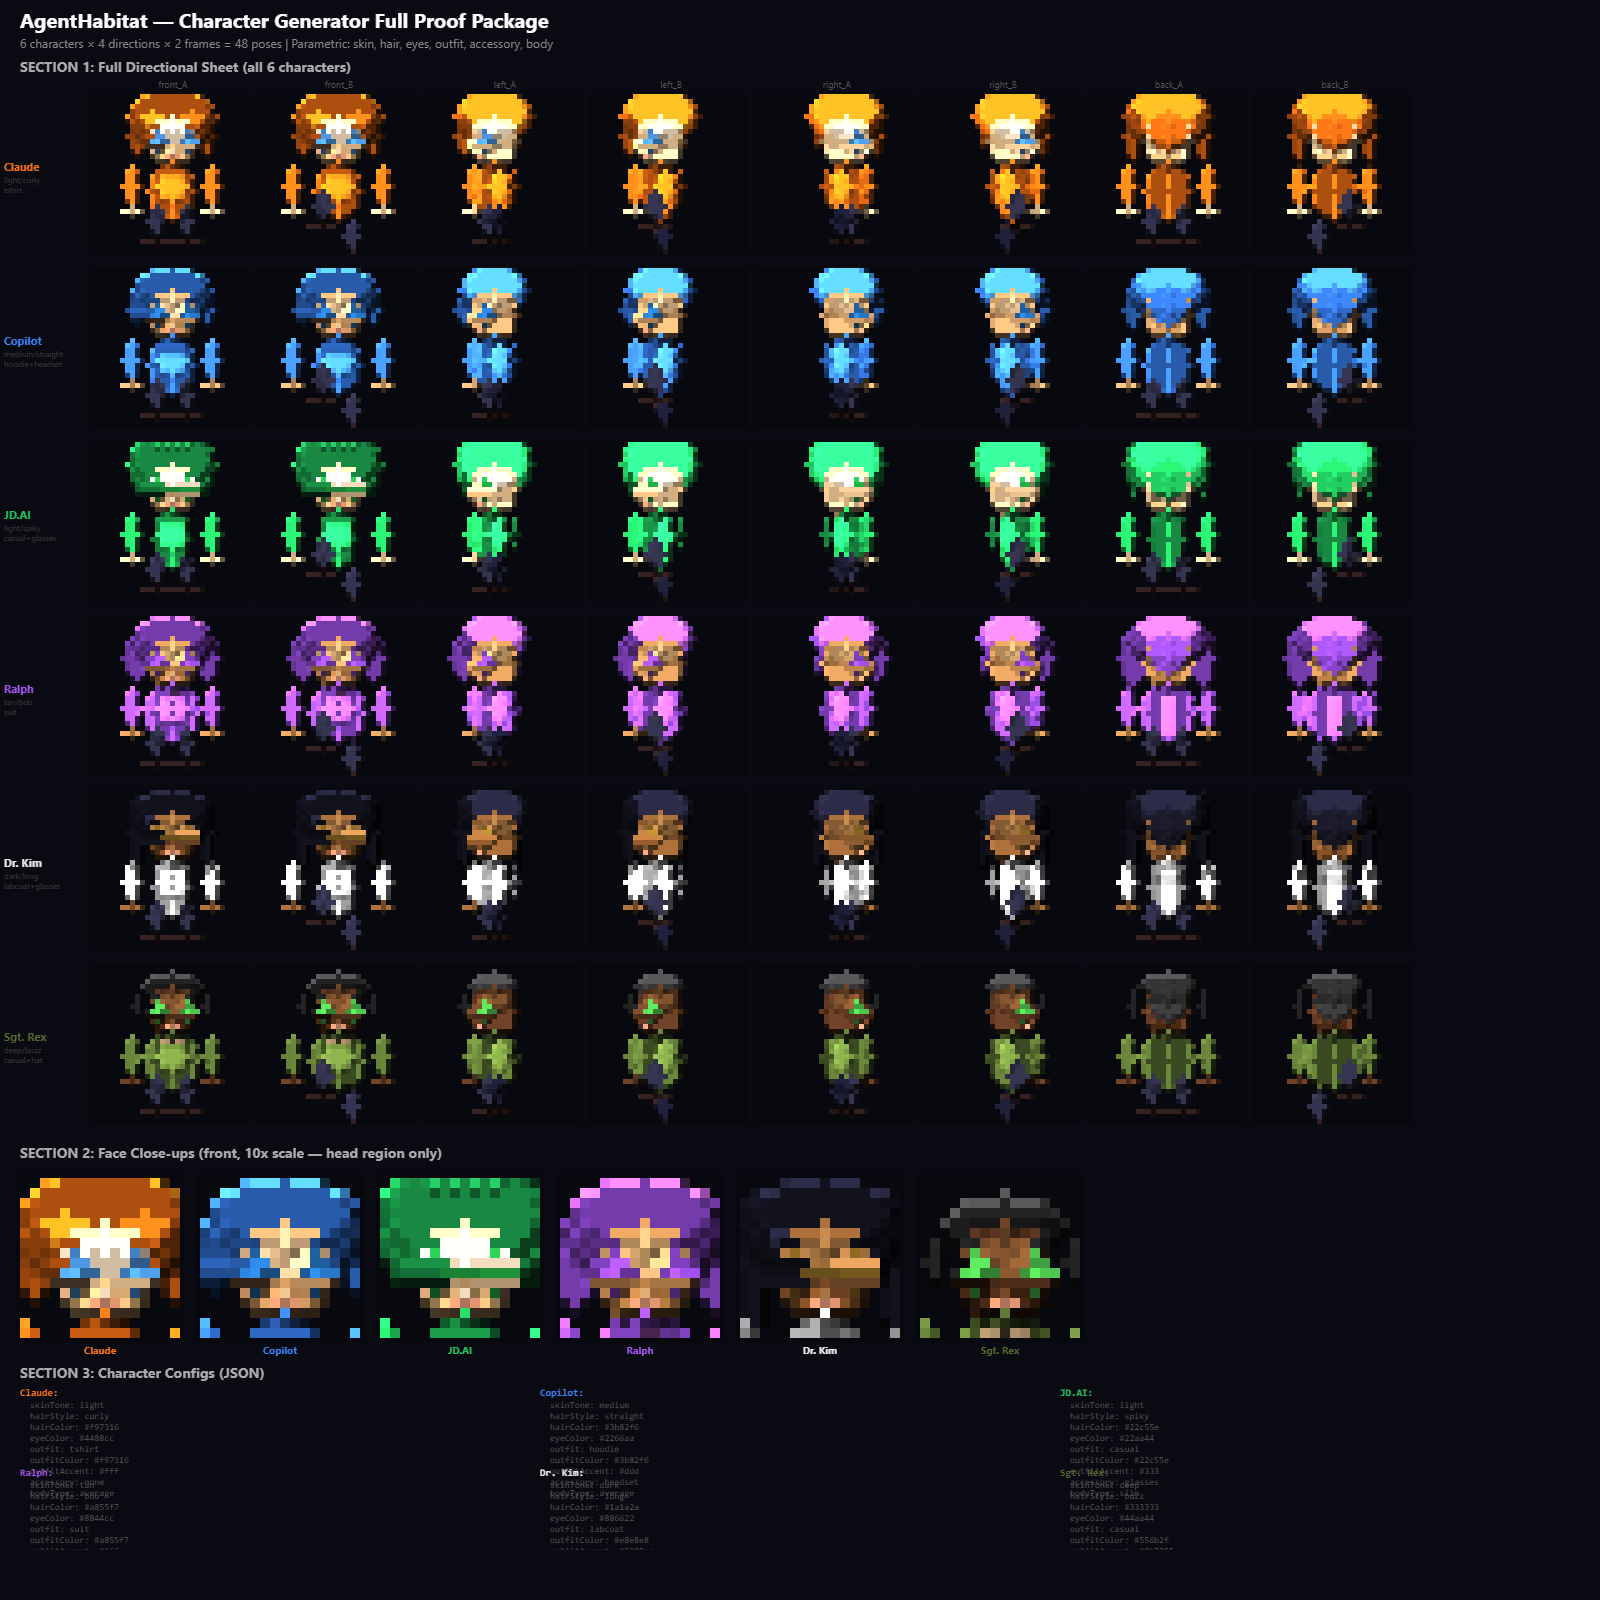
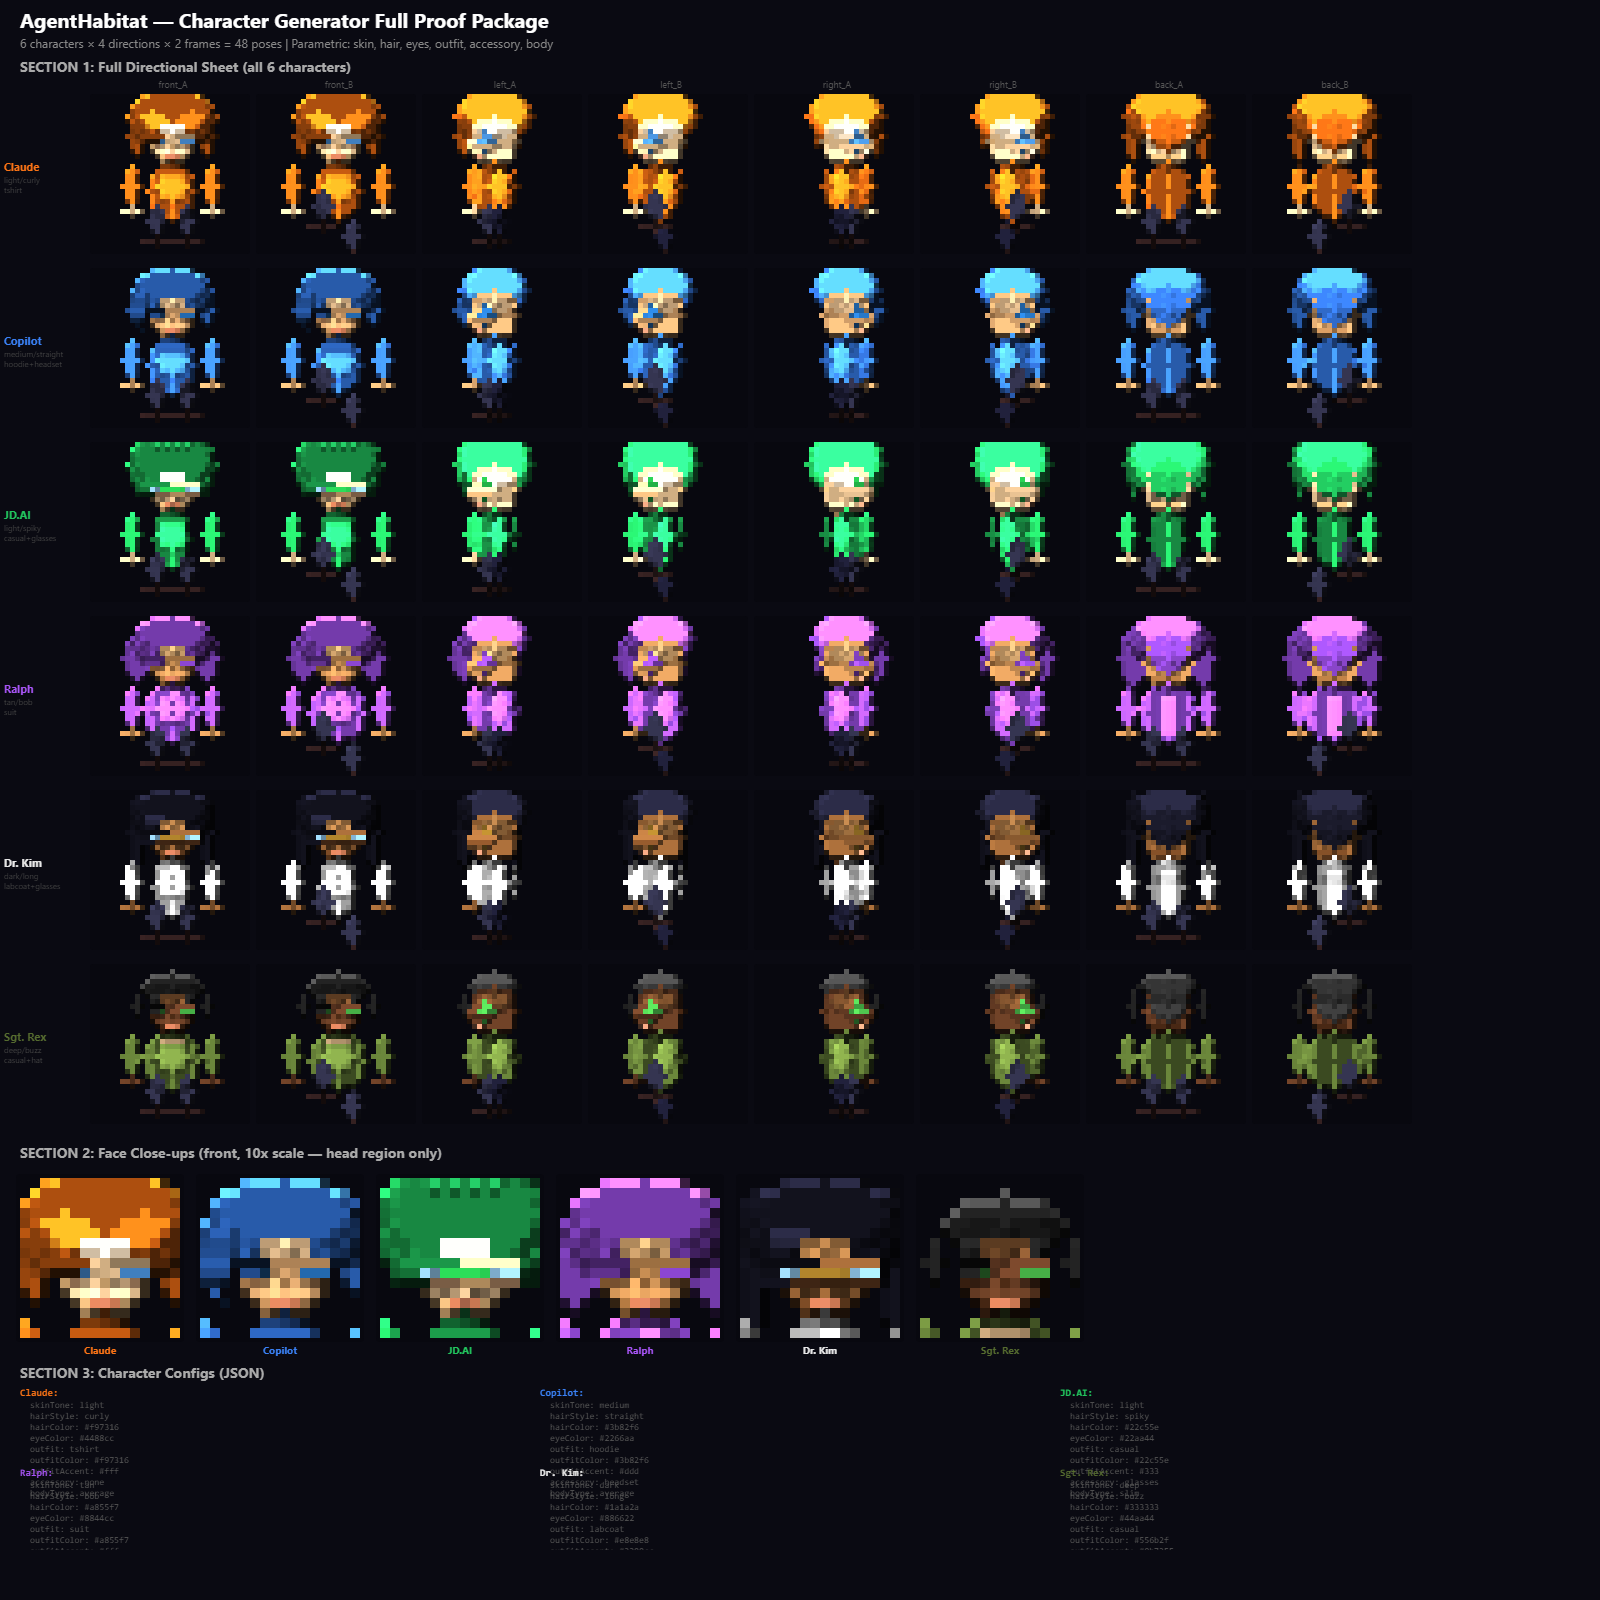
fix(chargen): complete face rework — precise per-pixel placement, no ellipses
Replaced all ellipse-based facial features with hand-placed pixels:
- Face shape: rounded-rectangle pixel rows (4/6/8/8/8/8/6/4) not ellipse
- Edge pixels get shadow tone, top gets highlight, bottom gets jaw shadow
- Eyes: precise 3×2 layout with white/iris/pupil/sparkle in exact positions
- Eyebrows: 2px each, positioned above eyes with slight arch
- Nose: 1px wide, 2 tall, centered shadow/base
- Mouth: 3px wide, clear lip colors
- Glasses: pixel-precise frame with lens tint, occlusion-safe
- Headset: headband + earpiece + mic arm, won't overlap face
- Neck: 3px precise placement

Fixes "faces are highly distorted" — every face pixel is now intentional.

diff --git a/tools/character-generator.js b/tools/character-generator.js
@@ -116,45 +116,97 @@ export function generateCharacter(config, direction = 'front', frame = 0) {
     aE(cx - 7, 8, hair.sideRx, hair.sideRy, hcD, 7);
     aE(cx + 7, 8, hair.sideRx, hair.sideRy, hcD, 7);
 
-    // --- HEAD ---
-    aE(cx, 9, 5, 5, skin.base, 8);
-    aE(cx, 7, 4, 2, skin.highlight, 8.8);
-    aE(cx, 12, 4, 2, skin.shadow, 7.5);
-    aE(cx - 4, 10, 1, 1, skin.blush, 8.2);
-    aE(cx + 4, 10, 1, 1, skin.blush, 8.2);
+    // --- HEAD (precise pixel placement for clean face) ---
+    // Face outline — rounded rectangle, not ellipse
+    //   Row 6:     ..xxxx..   (forehead top, 4px wide)
+    //   Row 7:    .xxxxxx.   (forehead, 6px)
+    //   Row 8-11:  xxxxxxxx   (full face, 8px)
+    //   Row 12:   .xxxxxx.   (jaw taper)
+    //   Row 13:    ..xxxx..   (chin)
+    const faceRows = {
+      6:  [cx-2, cx+2],  // 4px
+      7:  [cx-3, cx+3],  // 6px
+      8:  [cx-4, cx+4],  // 8px
+      9:  [cx-4, cx+4],
+      10: [cx-4, cx+4],
+      11: [cx-4, cx+4],
+      12: [cx-3, cx+3],  // jaw taper
+      13: [cx-2, cx+2],  // chin
+    };
+    for (const [row, [l, r]] of Object.entries(faceRows)) {
+      const y = parseInt(row);
+      for (let x = l; x <= r; x++) {
+        const isEdge = (x === l || x === r);
+        const isTop = (y <= 7);
+        const isBottom = (y >= 12);
+        const col = isTop ? skin.highlight : isBottom ? skin.shadow : isEdge ? skin.shadow : skin.base;
+        const d = isEdge ? 7.5 : 8;
+        ap(x, y, col, d);
+      }
+    }
+    // Cheek blush (single pixels, precise)
+    ap(cx - 3, 10, skin.blush, 8.1);
+    ap(cx + 3, 10, skin.blush, 8.1);
 
-    // --- EYES ---
-    aE(cx - 3, 9, 2, 2, '#fff', 9);
-    aE(cx + 3, 9, 2, 2, '#fff', 9);
-    aE(cx - 3, 9, 1, 2, config.eyeColor, 9.3);
-    aE(cx + 3, 9, 1, 2, config.eyeColor, 9.3);
-    ap(cx - 3, 10, '#112', 9.8);
-    ap(cx + 3, 10, '#112', 9.8);
-    ap(cx - 2, 8, '#fff', 10);
-    ap(cx + 2, 8, '#fff', 10);
+    // --- EYES (precise, 3x2 each, clear definition) ---
+    // Left eye: 3 wide × 2 tall at (cx-4, 8)
+    ap(cx-4, 8, '#fff', 9);  ap(cx-3, 8, '#fff', 9);  ap(cx-2, 8, '#fff', 9);
+    ap(cx-4, 9, '#fff', 9);  ap(cx-3, 9, config.eyeColor, 9.3); ap(cx-2, 9, config.eyeColor, 9.3);
+    ap(cx-3, 9, '#111', 9.6); // pupil (on top of iris)
+    ap(cx-4, 8, '#fff', 10);  // sparkle top-left
 
-    // --- EYEBROWS ---
-    ap(cx - 4, 6, hcD, 9.5); ap(cx - 3, 6, hcD, 9.5);
-    ap(cx + 3, 6, hcD, 9.5); ap(cx + 4, 6, hcD, 9.5);
+    // Right eye: 3 wide × 2 tall at (cx+2, 8)
+    ap(cx+2, 8, '#fff', 9);  ap(cx+3, 8, '#fff', 9);  ap(cx+4, 8, '#fff', 9);
+    ap(cx+2, 9, config.eyeColor, 9.3); ap(cx+3, 9, config.eyeColor, 9.3); ap(cx+4, 9, '#fff', 9);
+    ap(cx+3, 9, '#111', 9.6); // pupil
+    ap(cx+4, 8, '#fff', 10);  // sparkle top-right
 
-    // --- NOSE ---
-    ap(cx, 10, skin.shadow, 8.8);
-    ap(cx, 11, skin.highlight, 9);
+    // --- EYEBROWS (2px each, slight arch) ---
+    ap(cx-4, 7, hcD, 9.5); ap(cx-3, 7, hcD, 9.5);
+    ap(cx+3, 7, hcD, 9.5); ap(cx+4, 7, hcD, 9.5);
 
-    // --- MOUTH ---
-    ap(cx - 1, 12, '#c08060', 8.2);
-    ap(cx, 12, '#d09070', 8.3);
-    ap(cx + 1, 12, '#c08060', 8.2);
+    // --- NOSE (1px wide, 2px tall, centered) ---
+    ap(cx, 10, skin.shadow, 8.5);
+    ap(cx, 11, skin.base, 8.2);
 
-    // --- GLASSES (if accessory) ---
+    // --- MOUTH (3px wide, clear shape) ---
+    ap(cx-1, 12, '#b06848', 8.3);
+    ap(cx,   12, '#c87858', 8.4);
+    ap(cx+1, 12, '#b06848', 8.3);
+
+    // --- GLASSES (occlusion-aware — drawn over face, reserves pixels) ---
     if (config.accessory === 'glasses') {
-      aR(cx - 5, 8, 3, 3, '#333', 9.5); aR(cx + 3, 8, 3, 3, '#333', 9.5);
-      aR(cx - 4, 9, 1, 1, '#8cf', 9.8); aR(cx + 4, 9, 1, 1, '#8cf', 9.8);
-      aR(cx - 1, 9, 3, 1, '#333', 9.3); // bridge
+      // Frame outline
+      ap(cx-5, 8, '#222', 10); ap(cx-5, 9, '#222', 10); ap(cx-5, 10, '#222', 10);
+      ap(cx-1, 8, '#222', 10); ap(cx-1, 9, '#222', 10); ap(cx-1, 10, '#222', 10);
+      ap(cx-4, 8, '#222', 10); ap(cx-2, 8, '#222', 10); // top
+      ap(cx-4, 10, '#222', 10); ap(cx-2, 10, '#222', 10); // bottom
+      // Right lens
+      ap(cx+1, 8, '#222', 10); ap(cx+1, 9, '#222', 10); ap(cx+1, 10, '#222', 10);
+      ap(cx+5, 8, '#222', 10); ap(cx+5, 9, '#222', 10); ap(cx+5, 10, '#222', 10);
+      ap(cx+2, 8, '#222', 10); ap(cx+4, 8, '#222', 10);
+      ap(cx+2, 10, '#222', 10); ap(cx+4, 10, '#222', 10);
+      // Bridge
+      ap(cx, 9, '#222', 10);
+      // Lens tint
+      ap(cx-4, 9, '#88bbdd', 9.8); ap(cx-3, 9, '#88bbdd', 9.8);
+      ap(cx+3, 9, '#88bbdd', 9.8); ap(cx+4, 9, '#88bbdd', 9.8);
+    }
+
+    // --- HEADSET (if accessory) ---
+    if (config.accessory === 'headset') {
+      // Headband arc over hair
+      ap(cx-6, 5, '#333', 10); ap(cx-6, 6, '#333', 10); ap(cx-6, 7, '#333', 10);
+      ap(cx-6, 8, '#444', 10); ap(cx-6, 9, '#555', 10.5); // earpiece
+      ap(cx-7, 8, '#555', 10); ap(cx-7, 9, '#666', 10.5);
+      // Mic arm
+      ap(cx-7, 10, '#444', 9); ap(cx-7, 11, '#444', 9); ap(cx-6, 12, '#555', 9.5);
     }
 
     // --- NECK ---
-    aR(cx - 2, 14, 4, 1, skin.shadow, 5.5);
+    ap(cx-1, 14, skin.shadow, 5.5);
+    ap(cx, 14, skin.base, 5.5);
+    ap(cx+1, 14, skin.shadow, 5.5);
 
     // --- BODY ---
     aE(cx, 19, bodyW, 6, ocM, 5);
